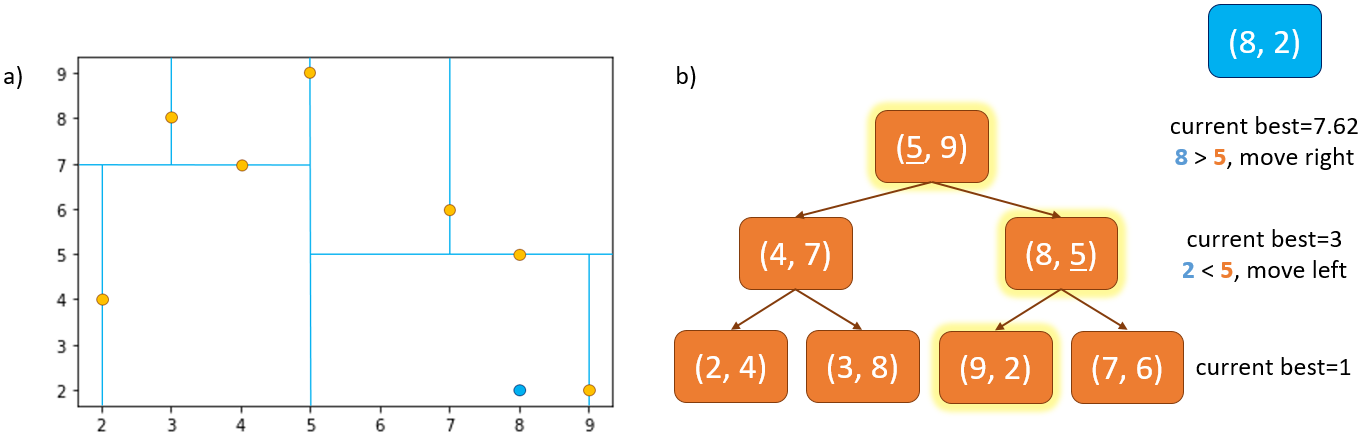
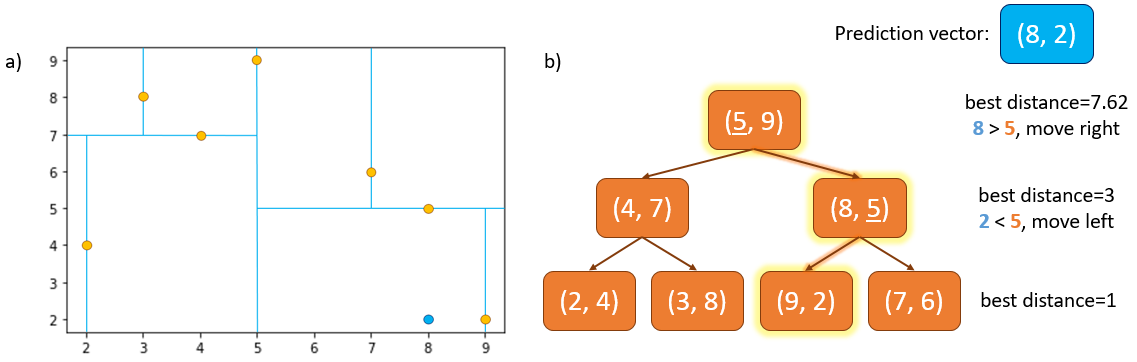
update tutorial figures for better visualisation of kd tree search

diff --git a/docs/tutorials/dataassociation/KDTree_Tutorial.py b/docs/tutorials/dataassociation/KDTree_Tutorial.py
@@ -126,7 +126,7 @@
 #   :alt: Figure showing a search of a different k-d tree
 #
 # Fig. 3 shows a situation where it is useful to traverse back up the tree to complete the search for the nearest
-# neighbour.
+# neighbour. The detection :math:`[9,4]` is the true nearest neighbour.
 
 
 # %%
